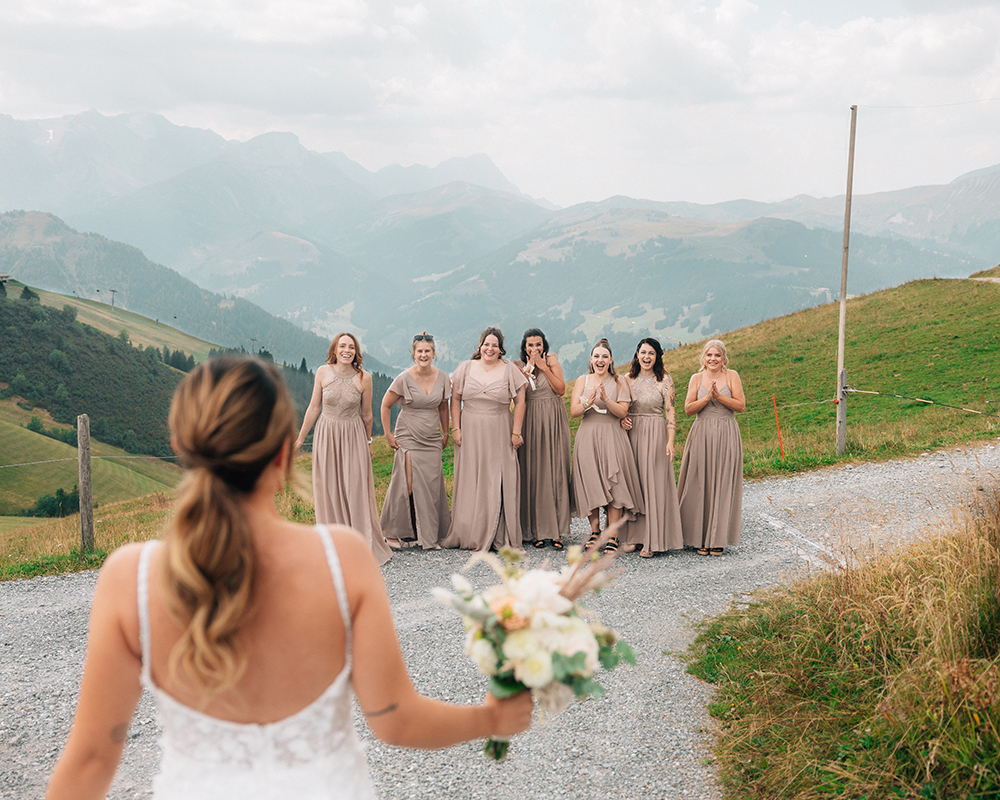
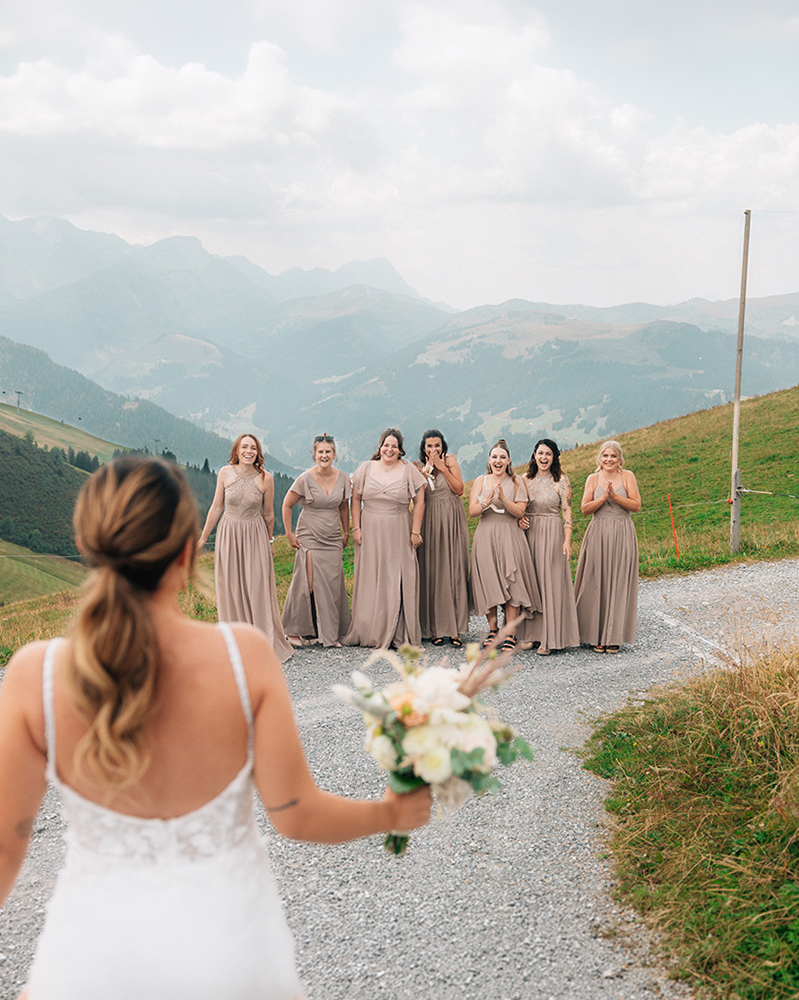
Referenzen Secion & Footer Section
Es wurde die vollständige Referenzen Section erstellt. Und anschliessend gleich auch der Footer.

diff --git a/index.html b/index.html
@@ -126,46 +126,46 @@
         <section class="ref-wrapper">
             <!-- Hochzeiten -->
             <article class="ref">
-                <div class="ref-card">
+                <div class="card ref-card">
                     <p class="ref-category">Hochzeiten</p>
                     <h3>Bilder für den perfekten Tag</h3>
                     <p>Jede Hochzeit ist einzigartig und genau so soll sie in ihrer ganzen Schönheit festgehalten werden. Besondere Momente & emotionale Details eingefangen mit der Canon R5.</p>
                 </div>
                 <div class="ref-gallery">
-                    <img class="polaroid" src="img/hochzeit-1.jpg" alt="Hochzeit Foto 1">
-                    <img class="polaroid" src="img/hochzeit-2.jpg" alt="Hochzeit Foto 2">
-                    <img class="polaroid" src="img/hochzeit-3.jpg" alt="Hochzeit Foto 3">
                     <img class="polaroid" src="img/hochzeit-4.jpg" alt="Hochzeit Foto 4">
+                    <img class="polaroid" src="img/hochzeit-1.jpg" alt="Hochzeit Foto 1">
+                    <img class="polaroid" src="img/hochzeit-3.jpg" alt="Hochzeit Foto 3">
+                    <img class="polaroid" src="img/hochzeit-2.jpg" alt="Hochzeit Foto 2">
                     <p class="script ref-gallery-title">Hüenerhut.</p>
                 </div>
             </article>
             <!-- Porträts -->
             <article class="ref">
-                <div class="ref-card">
+                <div class="card ref-card">
                     <p class="ref-category">Porträts</p>
-                    <h3>Personen im Fokus</h3>
+                    <h3>Personen</br>im Fokus</h3>
                     <p>Ein gutes Porträt zeigt mehr als nur ein Gesicht. Es zeigt Persönlichkeit, Charakter &amp; Emotion. Mit der Canon R5 entstehen Bilder, die authentisch wirken und lange Freude machen.</p>
                 </div>
                 <div class="ref-gallery">
                     <img class="polaroid" src="img/portrait-1.jpg" alt="Portrait Foto 1">
-                    <img class="polaroid" src="img/portrait-2.jpg" alt="Portrait Foto 2">
-                    <img class="polaroid" src="img/portrait-3.jpg" alt="Portrait Foto 3">
                     <img class="polaroid" src="img/portrait-4.jpg" alt="Portrait Foto 4">
+                    <img class="polaroid" src="img/portrait-3.jpg" alt="Portrait Foto 3">
+                    <img class="polaroid" src="img/portrait-2.jpg" alt="Portrait Foto 2">
                     <p class="script ref-gallery-title">Im Spotlight.</p>
                 </div>
             </article>
             <!-- Reisen -->
             <article class="ref">
-                <div class="ref-card">
+                <div class="card ref-card">
                     <p class="ref-category">Reisen</p>
                     <h3>Die Welt aus dem Blick der Kamera</h3>
                     <p>Auf Reisen nimmt man Orte aufmerksam wahr und man hält ihre Eigenheiten fest. Die schönsten Ecken eingefangen mit der Canon R5.</p>
                 </div>
                 <div class="ref-gallery">
                     <img class="polaroid" src="img/reisen-1.jpg" alt="Reisen Foto 1">
-                    <img class="polaroid" src="img/reisen-2.jpg" alt="Reisen Foto 2">
-                    <img class="polaroid" src="img/reisen-3.jpg" alt="Reisen Foto 3">
                     <img class="polaroid" src="img/reisen-4.jpg" alt="Reisen Foto 4">
+                    <img class="polaroid" src="img/reisen-3.jpg" alt="Reisen Foto 3">
+                    <img class="polaroid" src="img/reisen-2.jpg" alt="Reisen Foto 2">
                     <p class="script ref-gallery-title">Am entdecke.</p>
                 </div>
             </article>
@@ -183,12 +183,11 @@
             </nav>
             <div class="footer-cta">
                 <p class="script">Verzeu mir..</p>
-                <h2>Bereit für die nächste Geschichte?</h2>
+                <h2>Bereit für die</br>nächste Geschichte?</h2>
                 <a class="btn" href="kontakt.html">Lass uns sprechen</a>
             </div>
             <a class="footer-social" href="https://www.instagram.com/joeljakobphotography/" target="_blank" rel="noopener">
                 <img class="social-icon" src="img/instagram.svg" alt="Instagram Icon">
-                <p class="social-name">Instagram</p>
                 <p class="social-handle">@joeljakobphotography</p>
             </a>
             <div class="footer-bottom">

diff --git a/css/style.css b/css/style.css
@@ -209,6 +209,13 @@ h3 {
     font-size: 1.5rem;
 }
 
+.card {
+    background-color: var(--color-box);
+    border-radius: 1rem;
+    padding: 1.5rem;
+    box-shadow: var(--box-shadow);
+}
+
 .section-header {
     margin-top: 100px;
     margin-bottom: 30px;
@@ -224,24 +231,25 @@ h3 {
     }
 }
 
+/* Specs Section */
+
 .specs-grid {
     display: grid;
     grid-template-columns: 1fr 1fr 1fr 1fr;
     gap: 2rem;
 }
 
-.card {
-    background-color: var(--color-box);
-    border-radius: 1rem;
-    padding: 1.5rem;
-    box-shadow: var(--box-shadow);
-}
-
 .specs-card {
     display: flex;
     flex-direction: column;
     gap: 0.5rem;
-    padding: 30px;
+    padding: 45px 30px;
+}
+
+.spec-icon {
+    width: 1.5rem;
+    height: 1.5rem;
+    margin-bottom: 0.25rem;
 }
 
 .specs-wrapper {
@@ -252,7 +260,7 @@ h3 {
     display: grid;
     grid-template-columns: 1fr 1fr;
     gap: 1rem;
-    padding: 30px;
+    padding: 45px 30px;
 }
 
 .spec-list {
@@ -271,12 +279,170 @@ h3 {
     }
 }
 
+/* Ref Section */
+
 #script-margin {
     padding-top: 8px;
 }
 
+.ref-wrapper {
+    display: grid;
+    gap: 8rem;
+    margin-bottom: 8rem;
+}
 
+.ref {
+    display: grid;
+    grid-template-columns: 1fr 1fr;
+    align-items: center;
+    gap: 4rem;
+}
+
+/* Jede zweite Referenz ist gespiegelt */
+.ref:nth-child(even) .ref-card {
+    order: 2;
+}
+
+.ref-card {
+    padding: 45px 100px 45px 30px;
+    display: flex;
+    flex-direction: column;
+    gap: 3rem;
+
+    h3 {
+        font-size: 3rem;
+        line-height: 0.9;
+    }
+}
+
+.ref-category {
+    color: var(--color-primary);
+    font-size: 0.9rem;
+    font-weight: 500;
+}
+
+.ref-gallery {
+    display: grid;
+    grid-template-columns: repeat(2, 1fr);
+    justify-self: center;
+}
 
 .polaroid {
-    max-width: 20%;
+    width: 80%;
+    object-fit: cover;
+    border: 10px solid white;
+    box-shadow: var(--box-shadow);
+}
+
+.polaroid:nth-child(1) {
+    rotate: 8deg;
+    translate: 14% 12%;
+}
+
+.polaroid:nth-child(2) {
+    rotate: -4deg;
+    translate: -4% 0;
+    z-index: 2;
+}
+
+.polaroid:nth-child(3) {
+    rotate: -6deg;
+    translate: 4% -2%;
+}
+
+.polaroid:nth-child(4) {
+    rotate: 3deg;
+    translate: -18% -14%;
+    z-index: -1;
+}
+
+.ref-gallery-title {
+    grid-column: 2;
+    justify-self: right;
+    white-space: nowrap;
+    margin-top: -4.5rem;
+    rotate: -6deg;
+    line-height: 0.9;
+}
+
+/* Footer */
+
+footer {
+    max-width: var(--global-max-width);
+    margin: 0 auto 2rem;
+}
+
+.footer-card {
+    display: grid;
+    grid-template-columns: 1fr auto 1fr;
+    align-items: start;
+    padding: 30px;
+}
+
+.footer-nav {
+
+    ul {
+        list-style: none;
+        display: flex;
+        flex-direction: column;
+        gap: 1rem;
+    }
+
+    a {
+        color: var(--color-text);
+        text-decoration: none;
+    }
+
+    a:hover {
+        color: var(--color-primary);
+    }
+}
+
+.footer-legal {
+    color: var(--color-text);
+    text-decoration: none;
+}
+
+.footer-legal:hover {
+    color: var(--color-primary);
+}
+
+.footer-cta {
+    display: flex;
+    flex-direction: column;
+    align-items: center;
+    text-align: center;
+
+    h2 {
+        font-size: 3rem;
+        line-height: 0.9;
+        margin-bottom: 30px;
+    }
+}
+
+.footer-social {
+    justify-self: end;
+    display: grid;
+    grid-template-columns: auto auto;      /* Icon | Text */
+    column-gap: 0.6rem;
+    align-items: center;
+    color: var(--color-text);
+    text-decoration: none;
+}
+
+.social-icon {
+    grid-row: 1 / 3;                       /* Icon über beide Textzeilen */
+    width: 1.5rem;
+    height: 1.5rem;
+}
+
+.footer-bottom {
+    grid-column: 1 / -1;
+    display: flex;
+    justify-content: space-between;
+    align-items: center;
+    margin-top: 30px;
+    padding-top: 15px;
+    border-top: 1px solid color-mix(in srgb, var(--color-text) 20%, transparent);
+    font-size: 0.75rem;
 }
